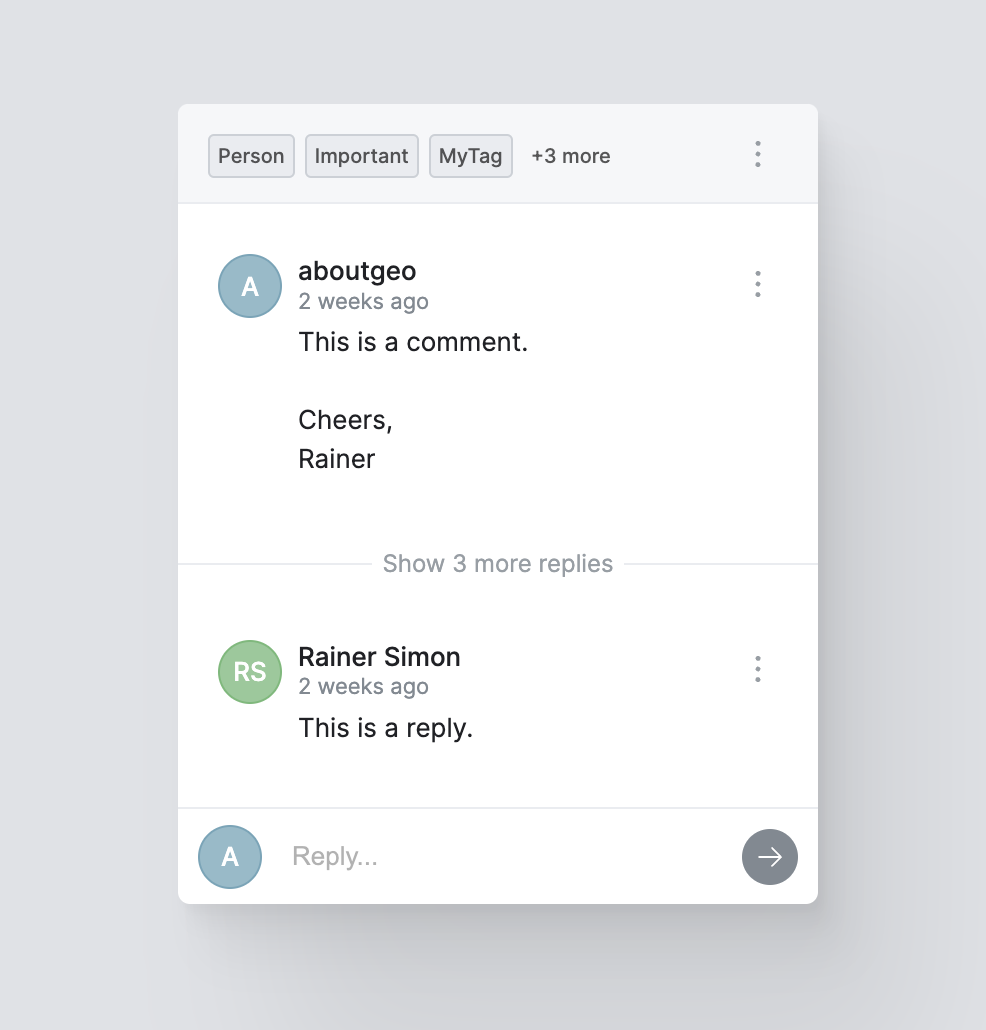
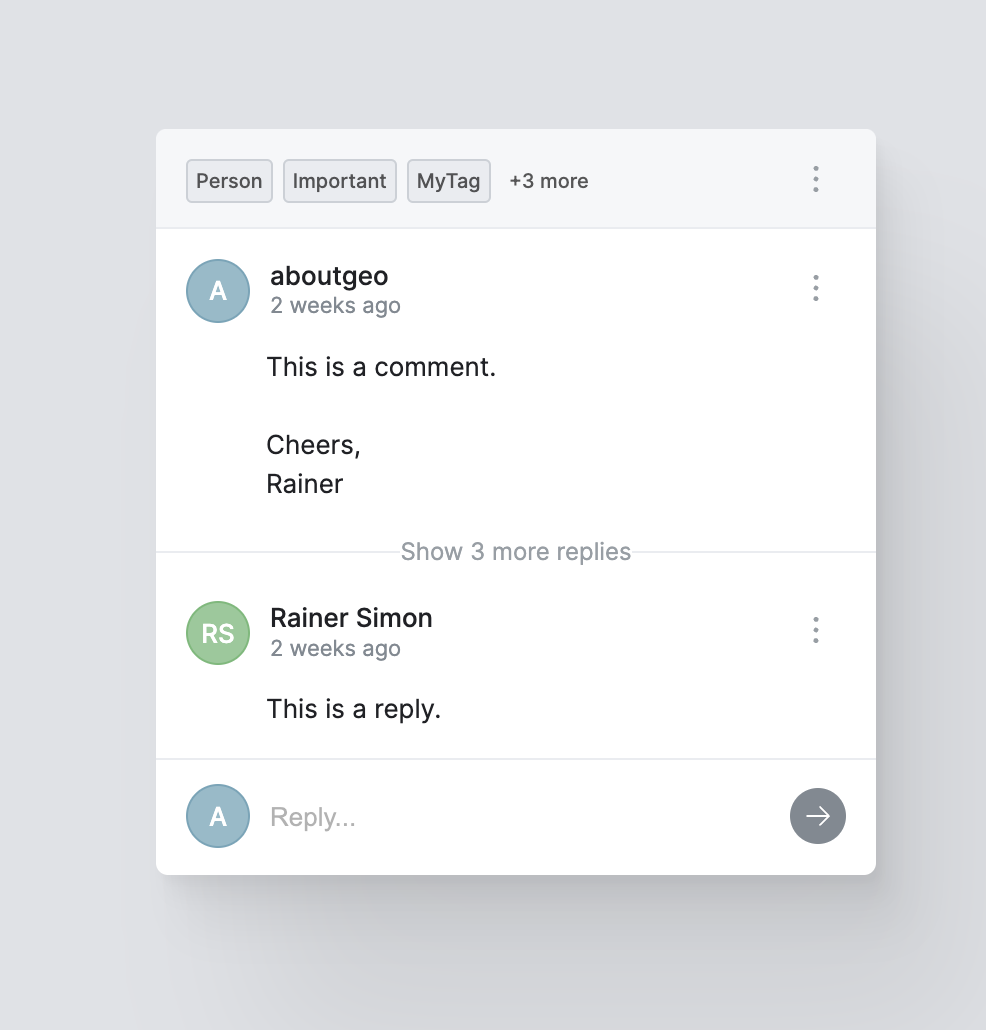
CSS tweaks + updated screenshot

Changed region(s): [[0.1521, 0.1243, 0.9128, 0.901], [0.1826, 0.1243, 0.6085, 0.1864], [0.3955, 0.5282, 0.6389, 0.5592]]

diff --git a/src/AnnotationPopup/AnnotationPopup.css b/src/AnnotationPopup/AnnotationPopup.css
@@ -6,7 +6,7 @@
     6.5px 10.8px 9.1px rgba(0, 0, 0, 0.035),
     15.7px 25.9px 22px rgba(0, 0, 0, 0.046),
     52px 86px 73px rgba(0, 0, 0, 0.07);
-  width: 320px;
+  width: 360px;
 }
 
 .annotation-popup ul {
@@ -28,6 +28,6 @@
 .annotation-popup article p {
   line-height: 150%;
   margin: 0;
-  padding: 10px 10px 0 40px;
+  padding: 12px 10px 0 40px;
   white-space: pre-line
 }
